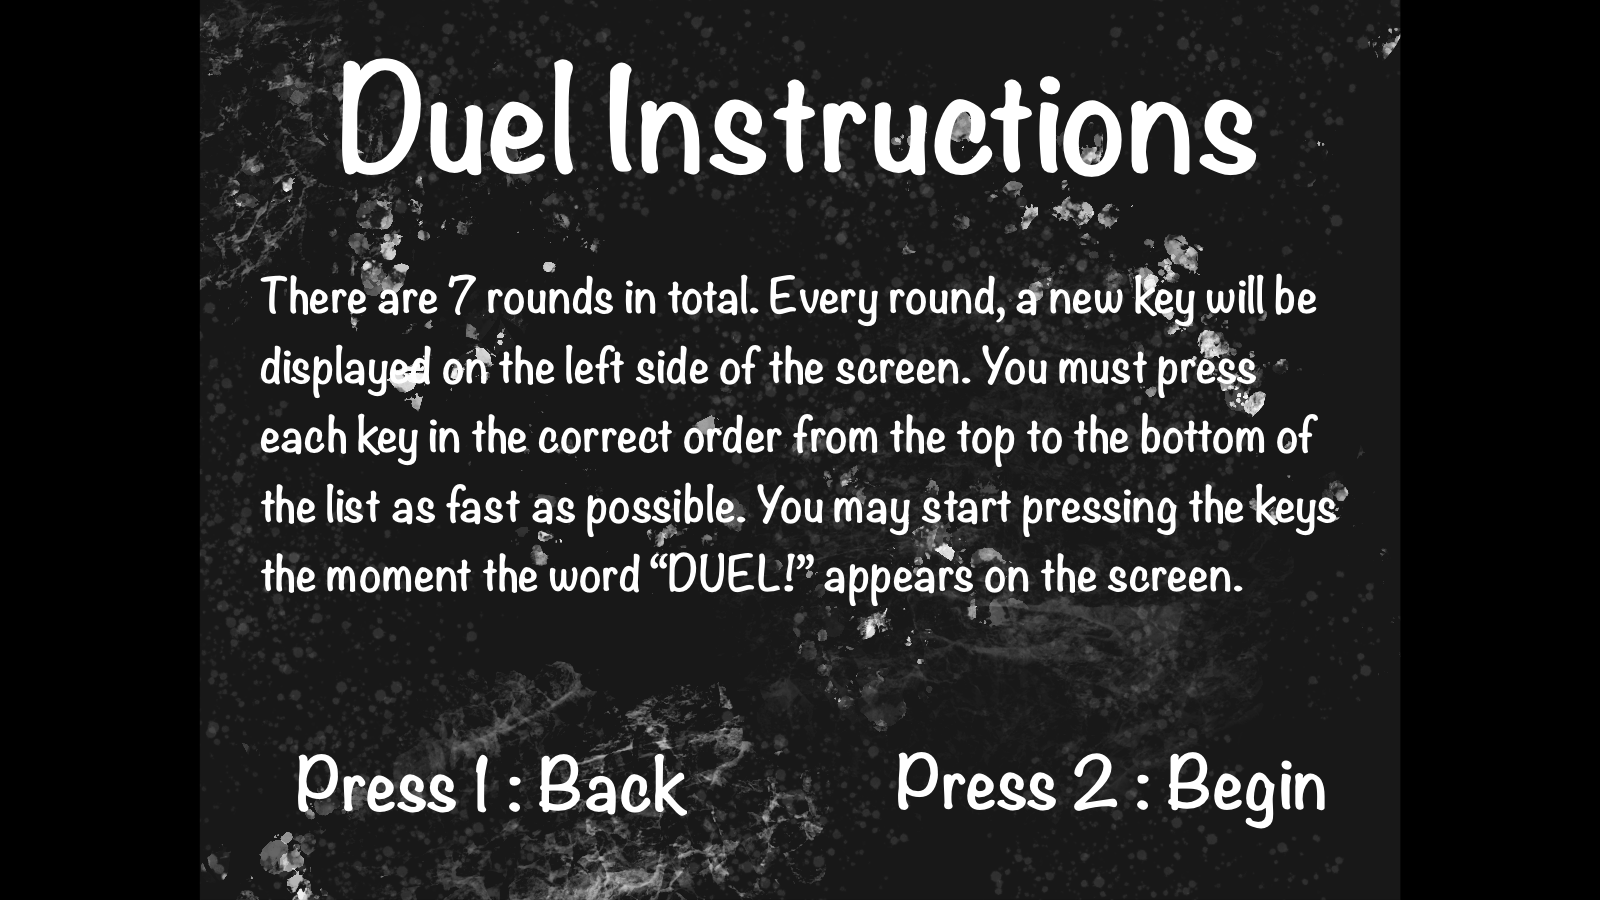
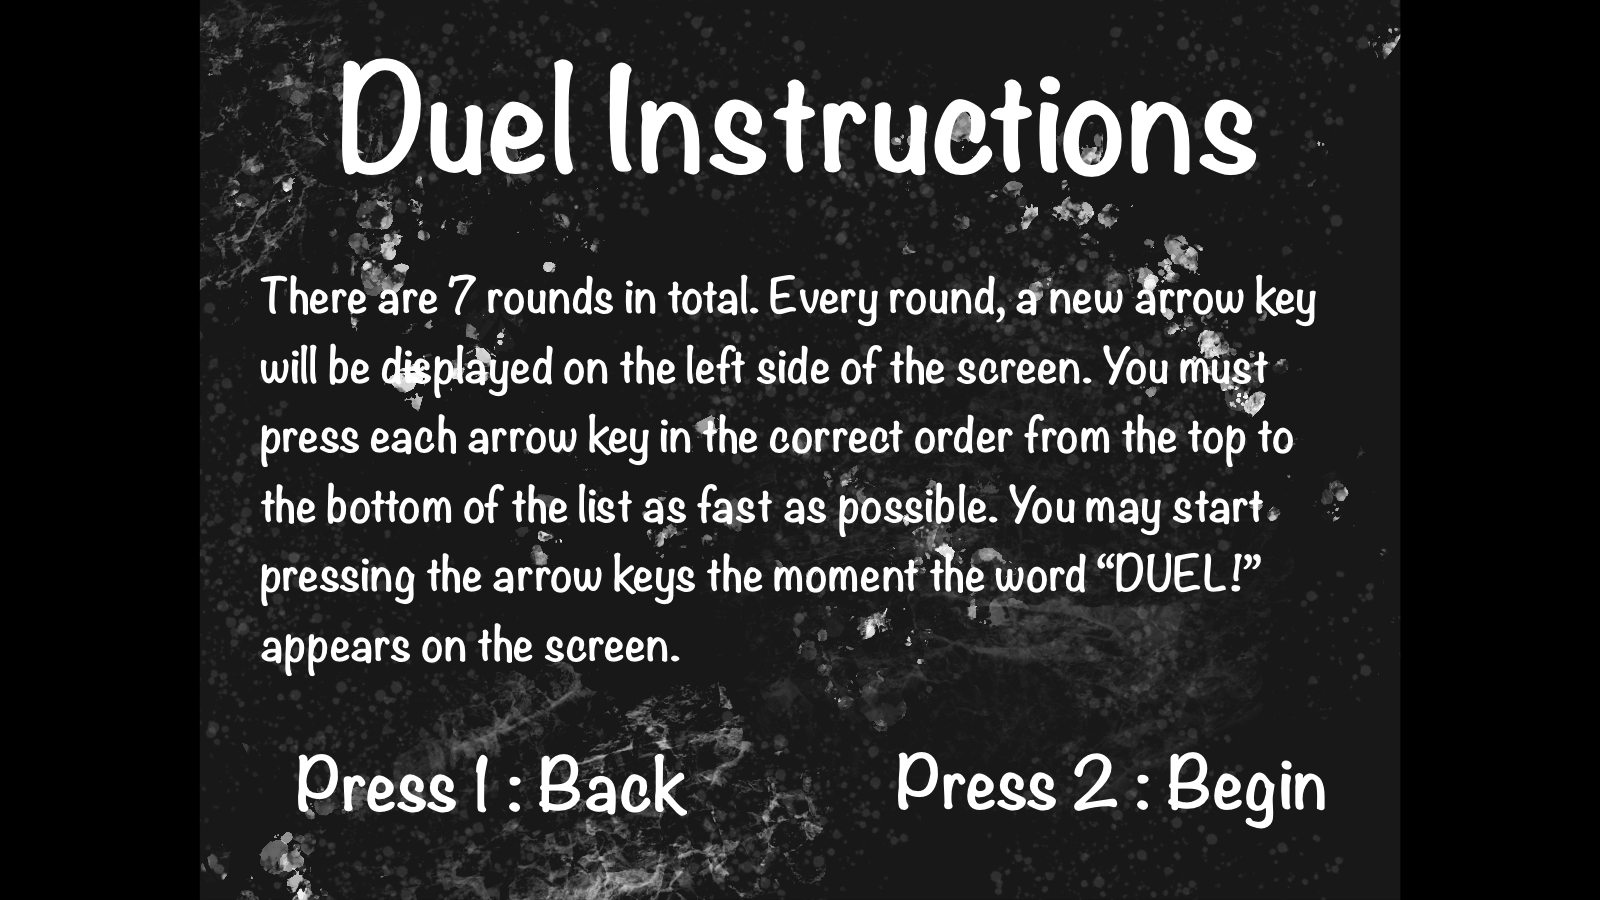
added new UI for 3rd scene and fixed Duel Instructions
I made sure to specify that the arrow keys should be pressed in the Duel Instructions. Added UI text that indicates whether or not the player should kill the bandit or let him pass.

Changed region(s): [[0.1562, 0.4667, 0.8438, 0.7467], [0.1562, 0.3111, 0.8438, 0.4356]]

diff --git a/src/scenes/Bandits.js b/src/scenes/Bandits.js
@@ -134,7 +134,8 @@ class Bandits extends Phaser.Scene {
                 this.displayedKeys = true;
             }
 
-            if (this.bandit.x < 0) {
+            if (this.bandit.x < -500) {
+                this.bandit.destroy();
                 this.fight = false;
                 this.prepare = true;
             }
@@ -189,7 +190,7 @@ class Bandits extends Phaser.Scene {
 
     // Spawn mounted bandit
     spawnBandit() {
-        this.bandit = this.physics.add.sprite(1000, 500, 'HorsebackBandit').setAlpha(1).setDepth(2).setVelocityX(-200).setVelocityY(50);
+        this.bandit = this.physics.add.sprite(1000, 450, 'HorsebackBandit').setAlpha(1).setDepth(2).setVelocityX(-200).setVelocityY(35);
     }
 
     // new bandit, new button combination displayed on the screen

diff --git a/src/scenes/Load.js b/src/scenes/Load.js
@@ -52,6 +52,8 @@ class Load extends Phaser.Scene {
         this.load.image('RoundWon', 'img/RoundWon.png');
         this.load.image('MissedUI', 'img/MissedUI.png');
         this.load.image('WomanKilledUI', 'img/WomanKilledUI.png');
+        this.load.image('AttackUI', 'img/AttackUI.png');
+        this.load.image('PassUI', 'img/PassUI.png');
 
         // Animation Spritesheets
         this.load.spritesheet('bandit1', 'img/Bandit1Animation.png', {frameWidth: 195, frameHeight: 361, startFrame: 0, endFrame: 2});
